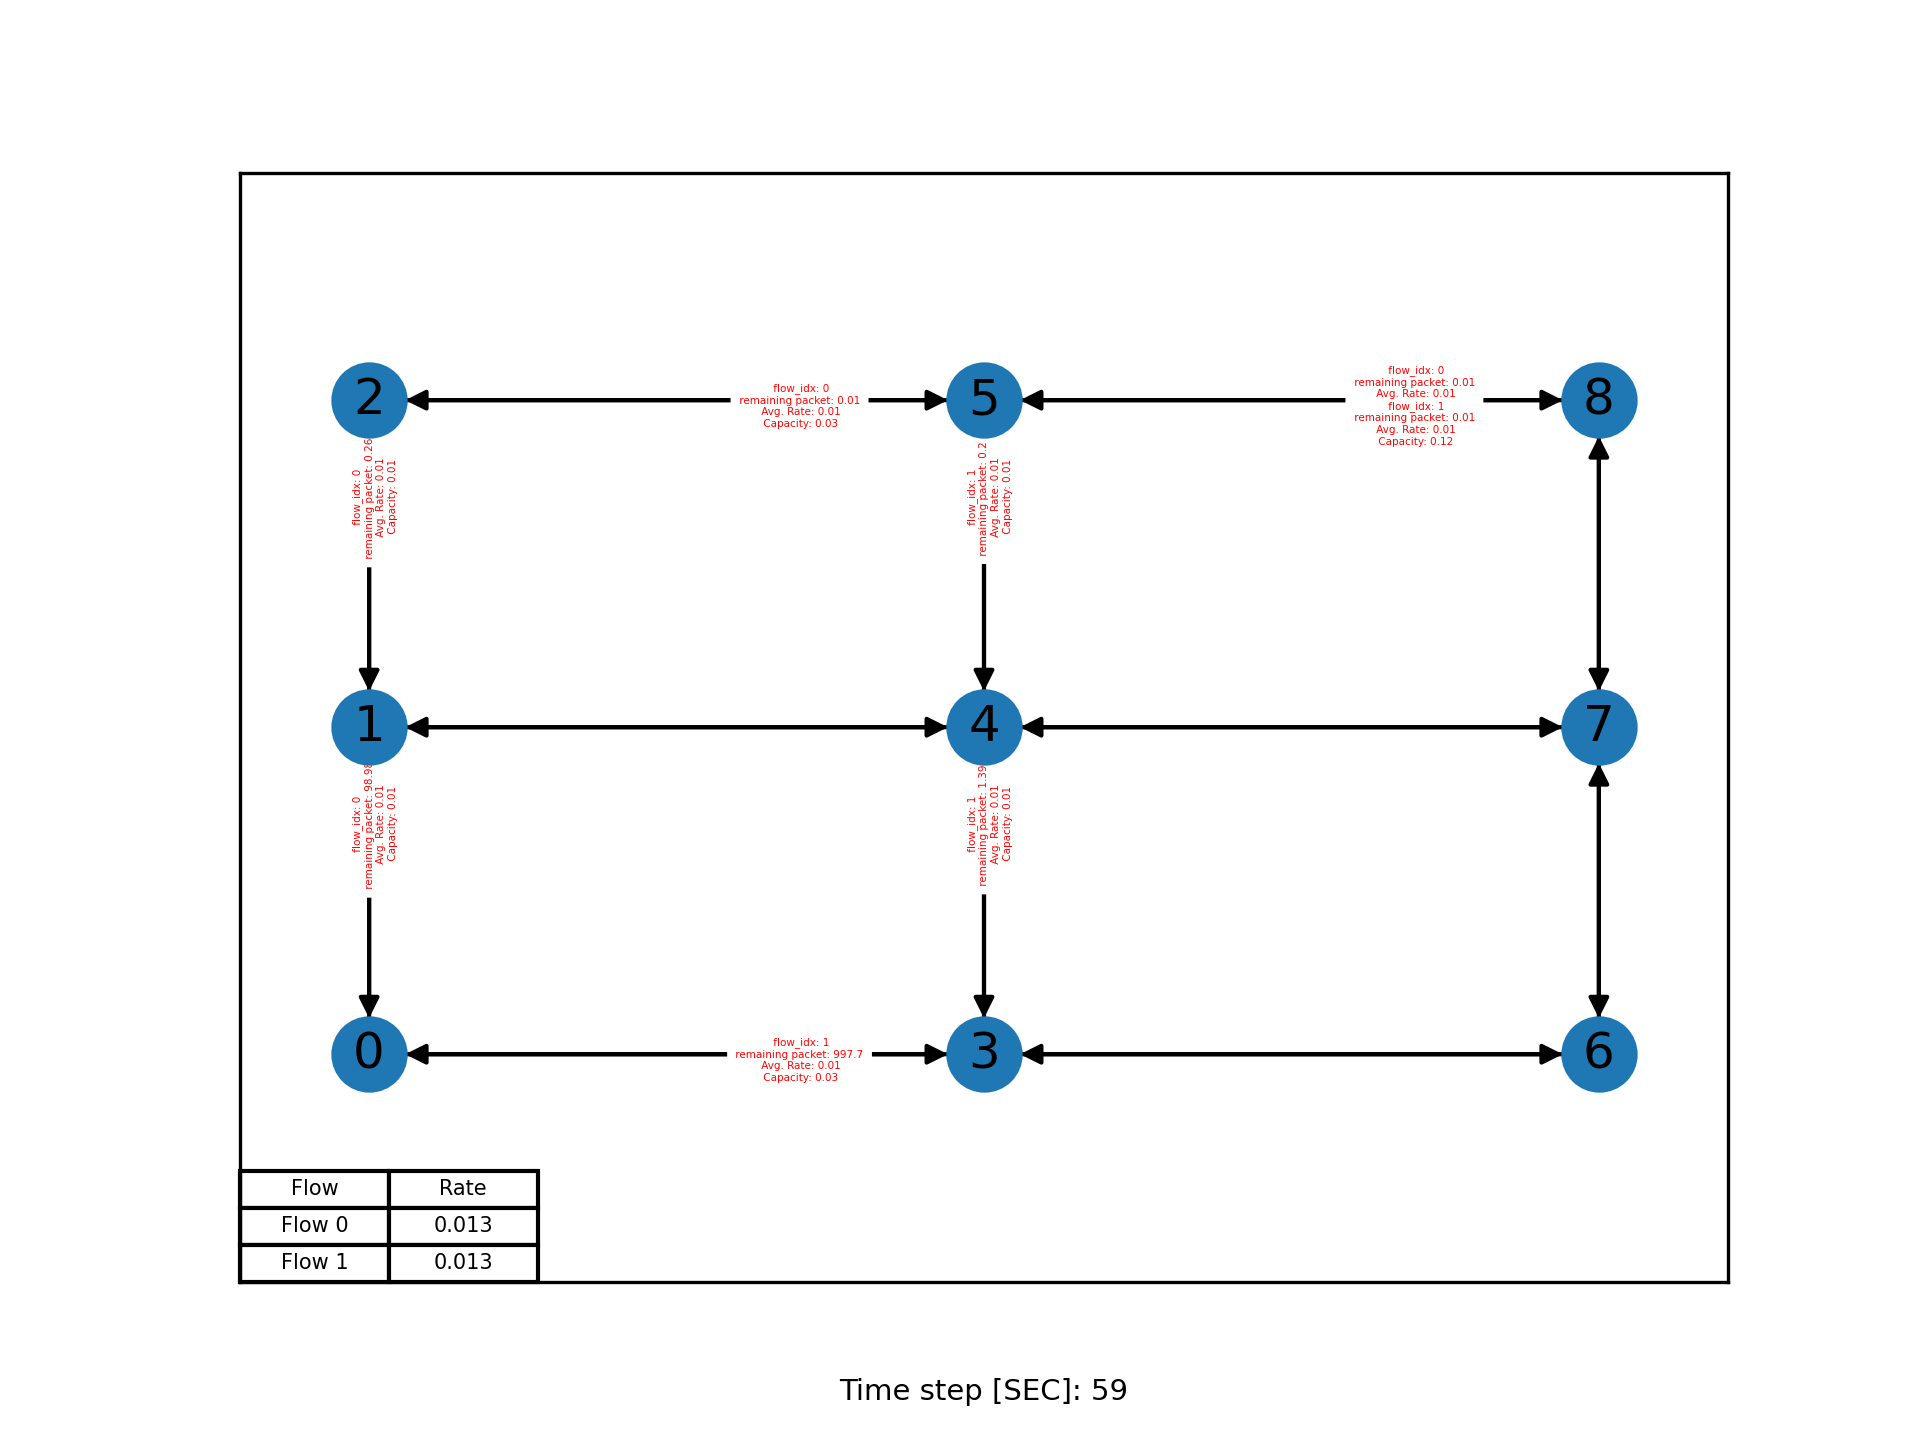
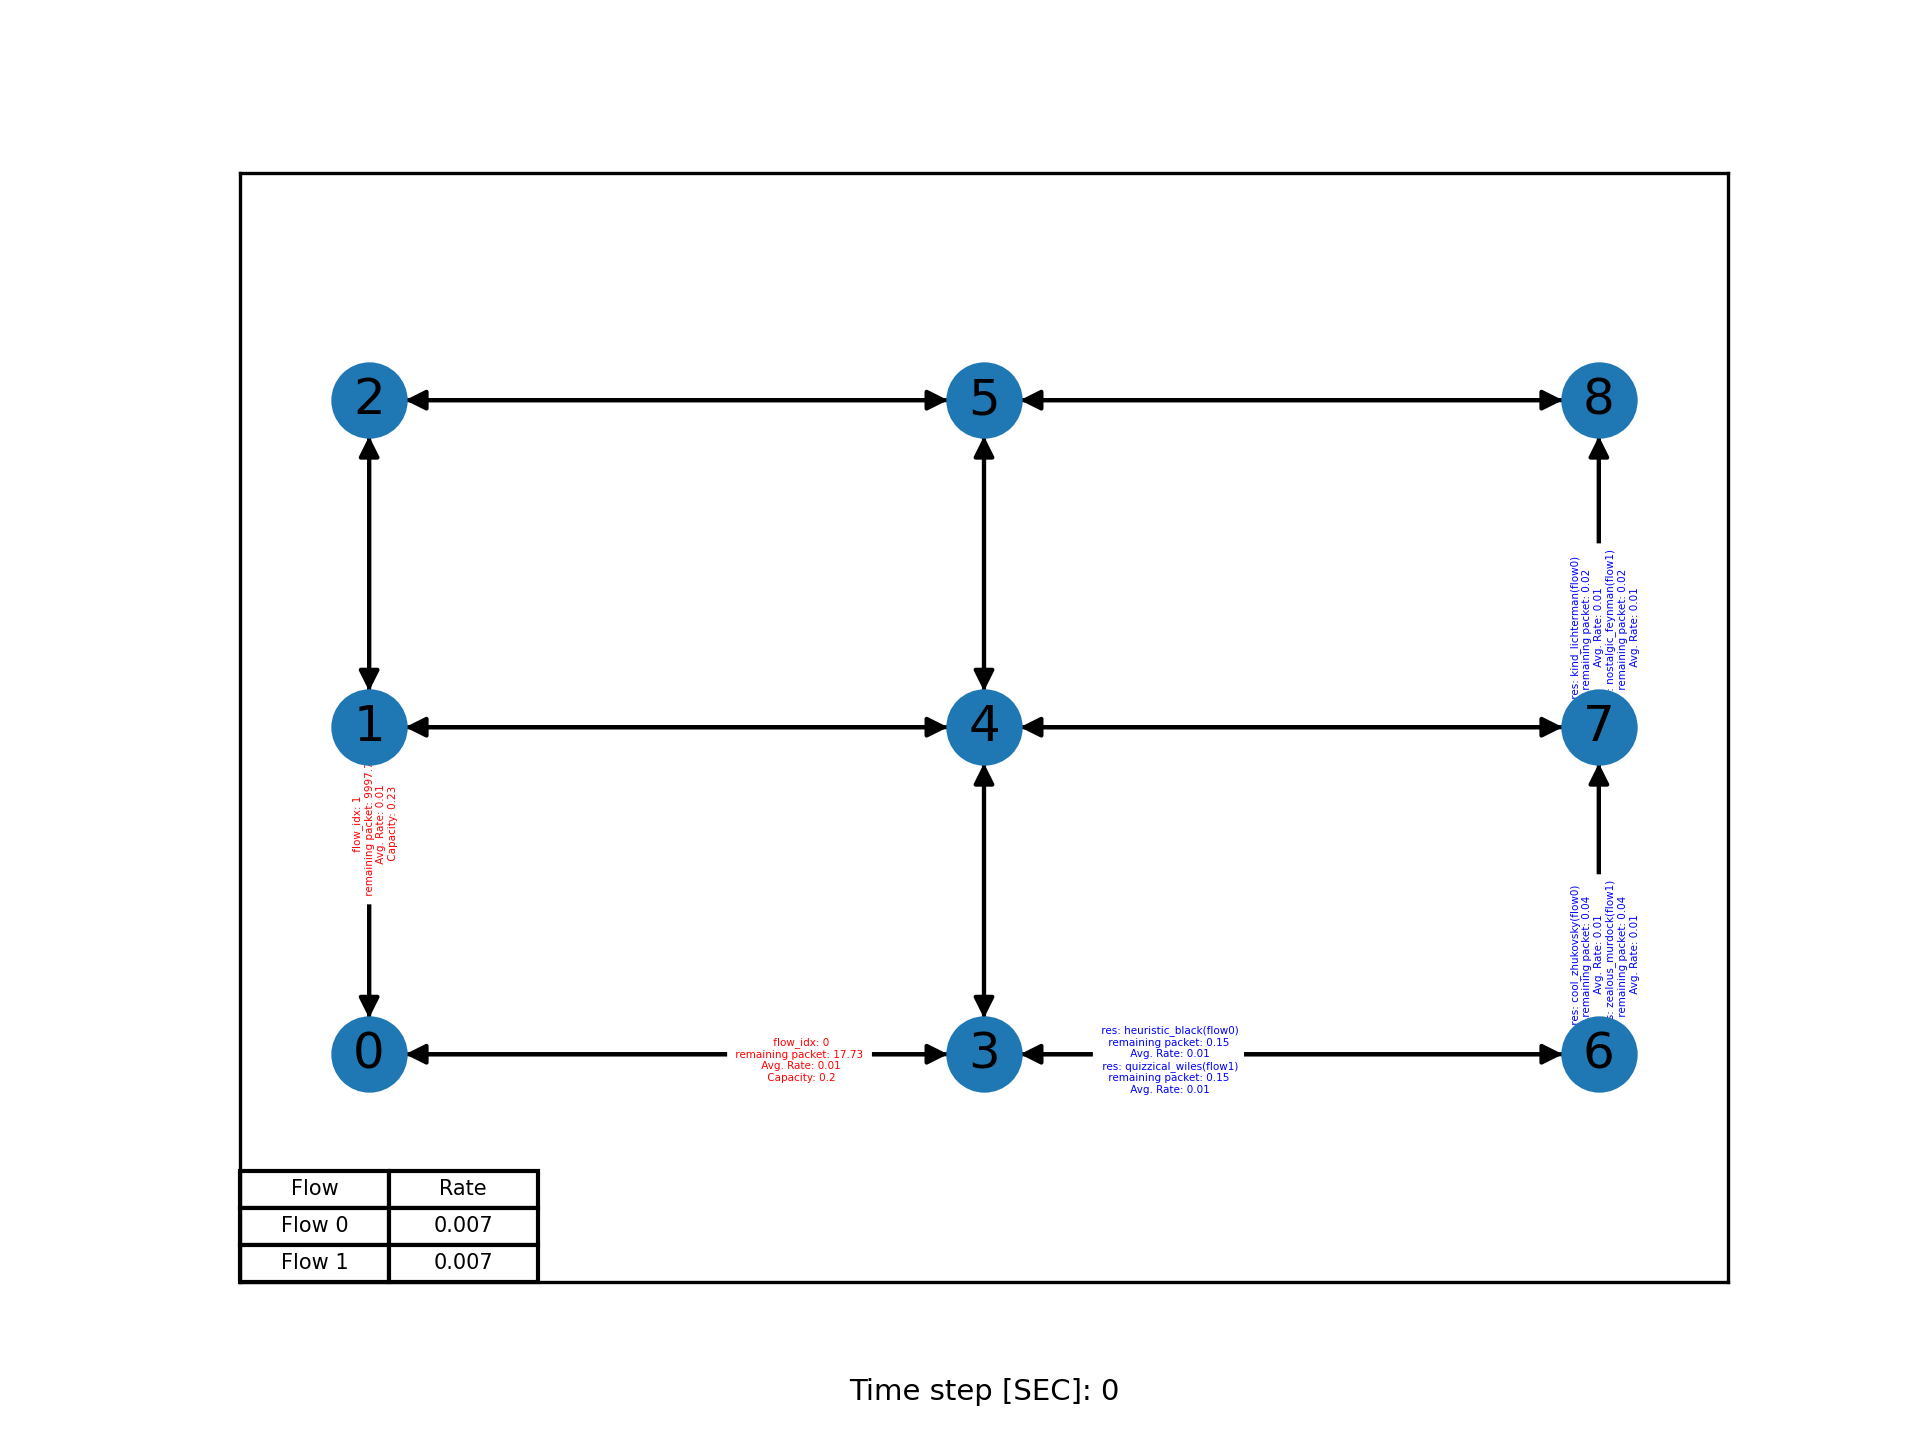
rate calcuation changed

diff --git a/DIAMOND/diamond.py b/DIAMOND/diamond.py
@@ -76,27 +76,28 @@ class SlottedDIAMOND:
         
         #################### central computer in network computes allocations  #################### 
         # stage 1
-        rl_actions, rl_paths, rl_reward = self.slotted_grrl.run(env=env)
+        rl_actions, rl_paths, rl_reward, Tot_rates  = self.slotted_grrl.run(env=env)
         rl_actions.sort(key=lambda x: x[0])
         rl_actions = [x[1] for x in rl_actions]
         rl_delay_data = env.get_delay_data()
         rl_rates_data = env.get_rates_data()
 
         # stage 2
-        self.nb3r_steps = int(env.num_flows * 5)
-        nb3r_action = nb3r(
-                           objective=lambda a: -self.rates_objective(env, a),
-                           # objective=lambda a: -self.reward_objective(env, a),
-                           # objective=lambda a: -self.delay_objective(env, a),
-                           state_space=env.get_state_space(),
-                           num_iterations=self.nb3r_steps,  # max(self.nb3r_steps, int(env.num_flows * 5)),
-                           initial_state=rl_actions.copy(),
-                           verbose=False,
-                           seed=env.seed,
-                           return_history=False,
-                           initial_temperature=self.nb3r_tmpr)
+        # self.nb3r_steps = int(env.num_flows * 5)
+        # nb3r_action = nb3r(
+        #                    objective=lambda a: -self.rates_objective(env, a),
+        #                    # objective=lambda a: -self.reward_objective(env, a),
+        #                    # objective=lambda a: -self.delay_objective(env, a),
+        #                    state_space=env.get_state_space(),
+        #                    num_iterations=self.nb3r_steps,  # max(self.nb3r_steps, int(env.num_flows * 5)),
+        #                    initial_state=rl_actions.copy(),
+        #                    verbose=False,
+        #                    seed=env.seed,
+        #                    return_history=False,
+        #                    initial_temperature=self.nb3r_tmpr)
+        
         # routs
-        routs = env.get_routs(nb3r_action)
+        # routs = env.get_routs(rl_actions)
         
         ####################  The actual run and evaluation of packets in the network   #################### 
         # _ = self.real_run(env, actions_recipe)
@@ -104,8 +105,8 @@ class SlottedDIAMOND:
 
 
         if grrl_data:
-            return routs, rl_rates_data, rl_delay_data
-        return routs
+            return Tot_rates #routs, rl_rates_data, rl_delay_data
+        return Tot_rates #routs
 
     def real_run(self,env, actions_recipe = None):
         '''

diff --git a/DIAMOND/test/inference_vs_competitors_simple.py b/DIAMOND/test/inference_vs_competitors_simple.py
@@ -3,6 +3,7 @@ import random
 import os
 from datetime import datetime
 import shutil
+import matplotlib.pyplot as plt
 
 
 import sys
@@ -77,8 +78,8 @@ if __name__ == "__main__":
 
     # flow demands
     F = [
-        {"source": 0, "destination": 8, "packets": 100, "time_constrain": 10 , 'flow_idx': 0 }, #Packets [MegaBytes]
-        {"source": 0, "destination": 8, "packets": 1000, "time_constrain": 10, 'flow_idx': 1}#, #Packets [MegaBytes]
+        {"source": 0, "destination": 8, "packets": 20, "time_constrain": 10 , 'flow_idx': 0 }, #Packets [MegaBytes]
+        {"source": 0, "destination": 8, "packets": 10000, "time_constrain": 10, 'flow_idx': 1}#, #Packets [MegaBytes]
         # {"source": 0, "destination": 8, "packets": 1, "time_constrain": 10, 'flow_idx': 2}, #Packets [MegaBytes]
         # {"source": 0, "destination": 8, "packets": 1000, "time_constrain": 10, 'flow_idx': 3}
     ]
@@ -91,7 +92,7 @@ if __name__ == "__main__":
                                         reward_weights=reward_weights,
                                         telescopic_reward = True,
                                         direction = 'minimize',
-                                        slot_duration=60,          # [in SEC]
+                                        slot_duration=5,          # [in SEC]
                                         Tot_num_of_timeslots = 60, # [in Minutes]
                                         render_mode = True,
                                         trx_power_mode='gain',
@@ -99,7 +100,22 @@ if __name__ == "__main__":
 
     slotted_diamond = SlottedDIAMOND(grrl_model_path=MODEL_PATH)
     
-    diamond_paths, slotted_grrl_rates_data, slotted_grrl_delay_data = slotted_diamond(slotted_env, grrl_data=True)
+    Tot_rates = slotted_diamond(slotted_env, grrl_data=False)
+
+
+    # plot rates
+    time_axis = list(range(len(Tot_rates)))
+    plt.figure()
+    plt.plot(time_axis[4:], Tot_rates[4:], linestyle='-', color='b', label='Avg Rate [Avg over all flows]')
+    # Add labels and title
+    plt.xlabel('Time (seconds)')
+    plt.ylabel('Average Rate [Mbps]')
+    plt.title('Average Rates Over Time')
+    plt.legend()
+
+    # Show the plot
+    plt.savefig('average_rates_over_time.png')
+
 
 ''' 
 Guide for AVIV:

diff --git a/DIAMOND/environment/slotted_graph_env_power.py b/DIAMOND/environment/slotted_graph_env_power.py
@@ -727,7 +727,7 @@ class SlottedGraphEnvPower:
         and output data for our likings betwwens time slots
         '''
         # gather rate and delay data
-        all_data , Avg_Rate_over_flows ,_ = self.get_rates_data()
+        all_data , Avg_Rate_over_flows = self.get_rates_data()
 
         # reset demands for the next time slot
         self.allocated = []
@@ -762,10 +762,24 @@ class SlottedGraphEnvPower:
         return data
 
     def get_rates_data(self):
+
         data = self.routing_metrics['rate']['rate_per_flow']
-        Avg_Rate_over_flows = np.mean(data, axis=0)
-        Avg_Rate_over_time = np.mean(data, axis=1)
-        return data,Avg_Rate_over_flows,Avg_Rate_over_time
+        # data[np.isinf(data)] = 0 # replace all inf to 0  (in case flow finished before slot ends)
+        Avg_Rate_over_flows = []
+        for second in range(self.slot_duration):
+            avg_rate_in_sedond = 0
+            divide_by = 0
+            for flow in range(data.shape[0]):
+                if data[flow,second] != np.inf:
+                    avg_rate_in_sedond += data[flow,second]
+                    divide_by += 1
+
+            avg_rate_in_sedond = avg_rate_in_sedond / divide_by
+            Avg_Rate_over_flows.append(avg_rate_in_sedond)
+
+        # Avg_Rate_over_flows = np.mean(data, axis=0)
+        # Avg_Rate_over_time = np.mean(data, axis=1)
+        return data,Avg_Rate_over_flows
 
     def edge_list_to_adj_mat(self, lst):
         mat = np.zeros((self.num_nodes, self.num_nodes))

diff --git a/DIAMOND/stage1_grrl/agent.py b/DIAMOND/stage1_grrl/agent.py
@@ -139,6 +139,7 @@ class SlottedGRRL:
         state = env.reset()
         reward = 0
         Tot_num_of_timeslots = env.Tot_num_of_timeslots
+        Tot_rates = []
 
         for ii in range(Tot_num_of_timeslots): # as long there is still flows running (determines the num of time_slotes in one episode)
             for step in range(env.num_flows):
@@ -150,5 +151,5 @@ class SlottedGRRL:
                 state, r = env.step(action)
                 reward += r
             state,SlotRates_AvgOverFlows = env.end_of_slot_update(state)
-        
-        return actions, paths, reward
+            Tot_rates+=(SlotRates_AvgOverFlows)
+        return actions, paths, reward, Tot_rates
